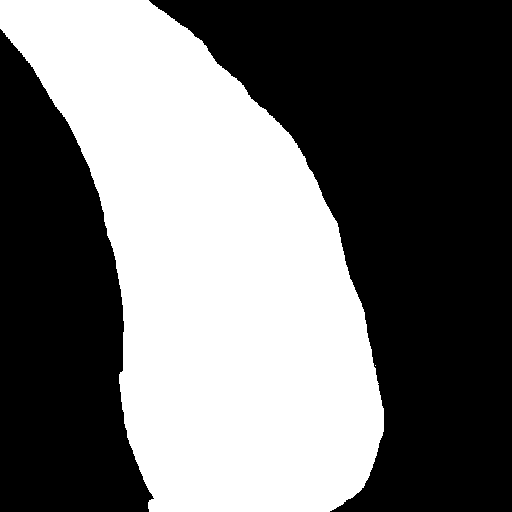
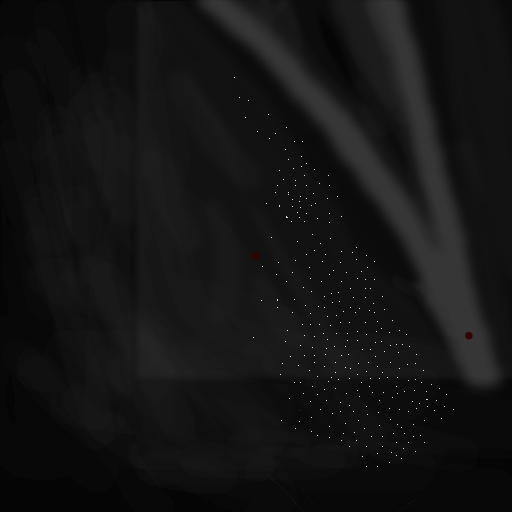
forest: draw trees by pixels

diff --git a/src/forest.js b/src/forest.js
@@ -11,13 +11,15 @@ module.exports = function() {
             canvas.height = image.height;
             var ctx = canvas.getContext('2d');
             ctx.drawImage(image, 0, 0, image.width, image.height);
-            for (var i = 0; i < config.forestTreesCount; i++) {
-                var p = getRandomPixel(canvas, ctx);
+            var treePixels = getTreePixels(canvas, ctx);
+            for (var i = 0; i < treePixels.length; i++) {
+                var p = treePixels[i];
                 var fir = createFir(2);
                 var l = config.landscapePlaneSize;
                 fir.position.set(-p.y / canvas.width * l + l / 2, -p.x / canvas.height * l + l / 2, 0);
                 forest.add(fir);
             }
+            console.log(getTreePixels(canvas, ctx));
             resolve(forest);
         });
     });
@@ -33,6 +35,20 @@ function getRandomPixel(canvas, ctx) {
         x: x,
         y: y
     }
+}
+
+function getTreePixels(canvas, ctx) {
+    var pixels = [];
+    var data = ctx.getImageData(0, 0, canvas.width, canvas.height).data;
+    for (var i = 0; i < data.length; i += 4) {
+        if (data[i] > 127) {
+            pixels.push({
+                x: i / 4 % canvas.width,
+                y: Math.floor(i / 4 / canvas.height)
+            })
+        }
+    }
+    return pixels;
 }
 
 function loadImage(src) {
